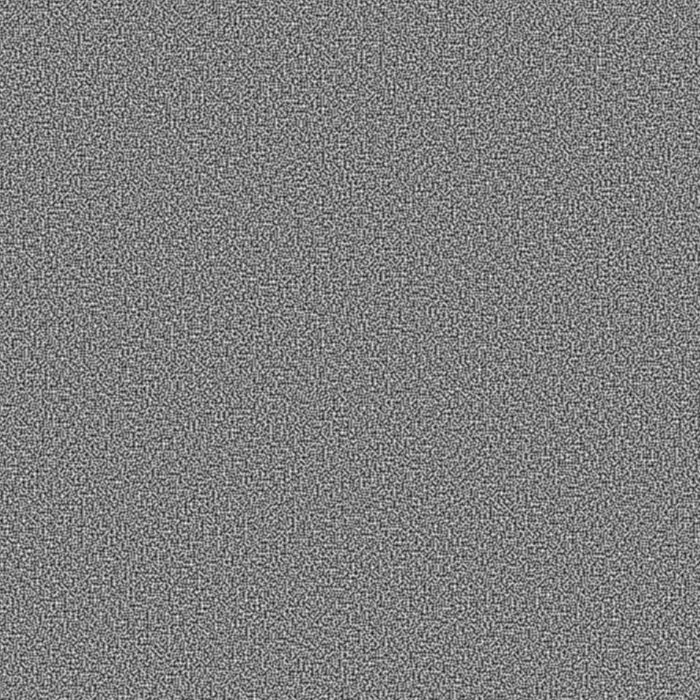
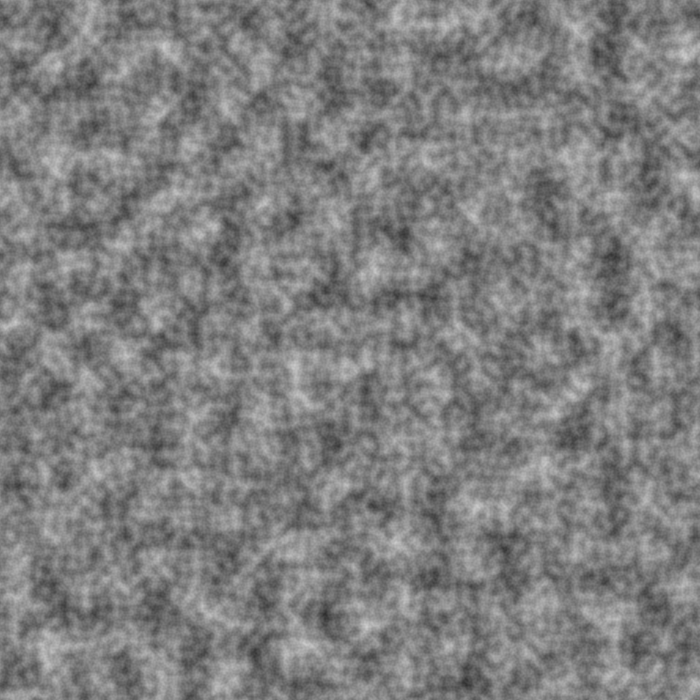
layered noise

diff --git a/noise/perlin.py b/noise/perlin.py
@@ -71,8 +71,11 @@ pixdata = []
 # for k in range (0, 700):
 for i in range (0, 700):
     for j in range (0,700):
+        small_p = perlin(255*float(i)/700, 255*float(j)/700, 0)*255
+        medium_p = perlin(70*float(i)/700, 70*float(j)/700, 0)*255
+        big_p = perlin(20*float(i)/700, 20*float(j)/700, 0)*255
 
-        pixdata.append(perlin(255*float(i)/700, 255*float(j)/700, 0)*255)
+        pixdata.append((small_p + big_p*4 + medium_p*3)/8)
         print(i, j)
 im.putdata(pixdata)
 im.save('test.png')
